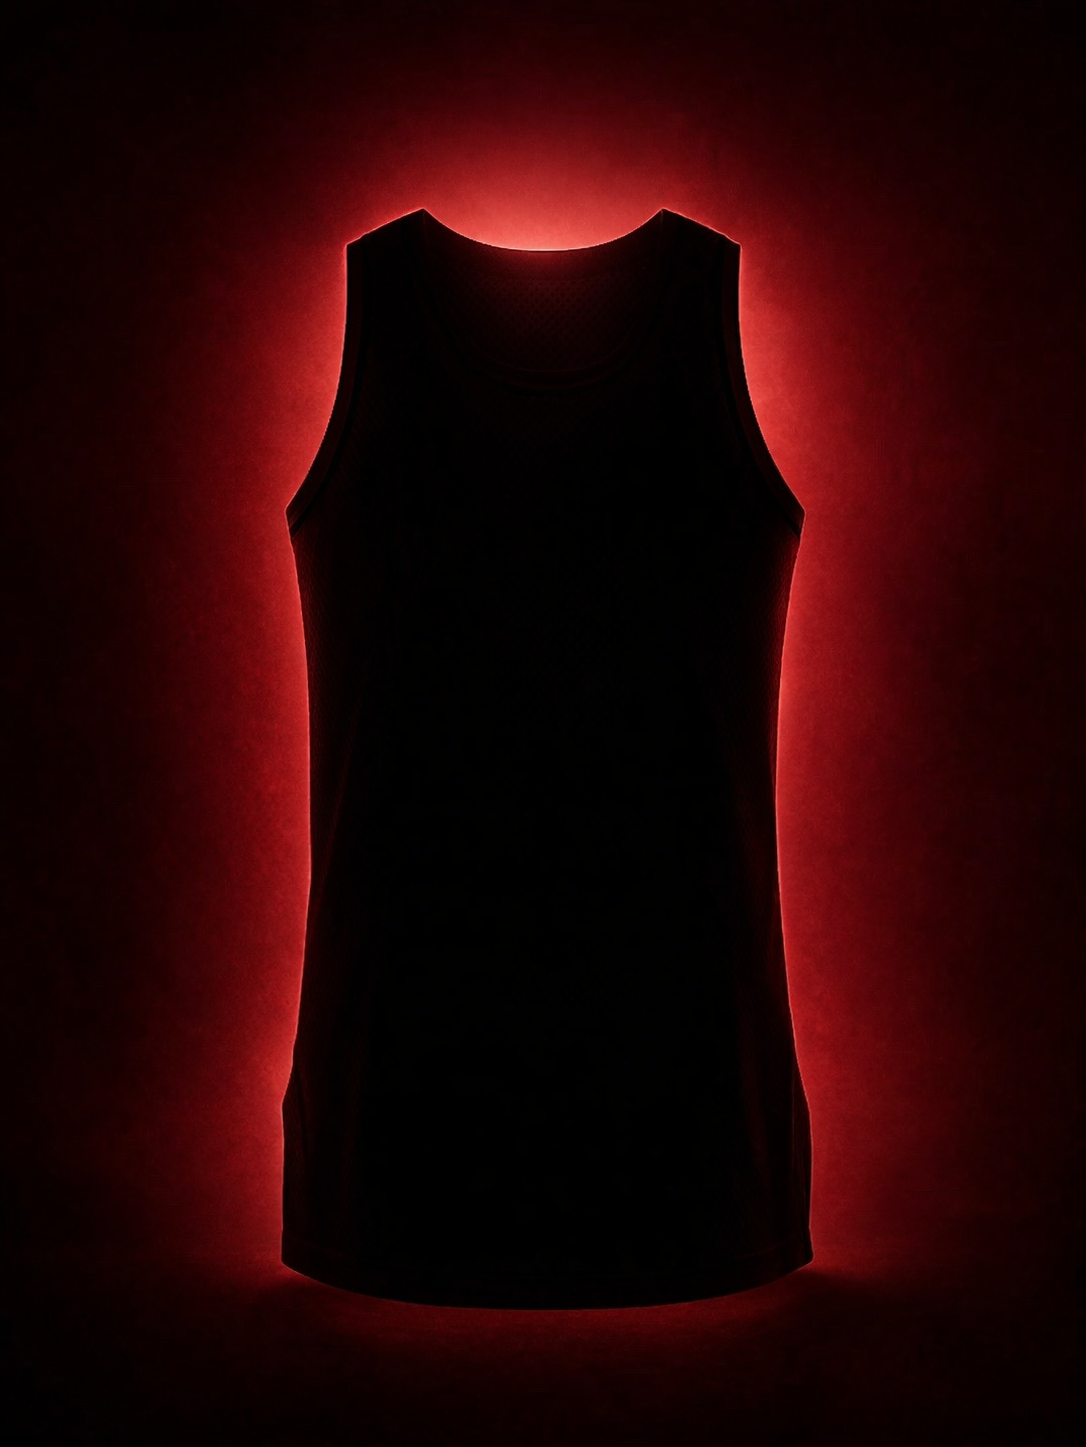
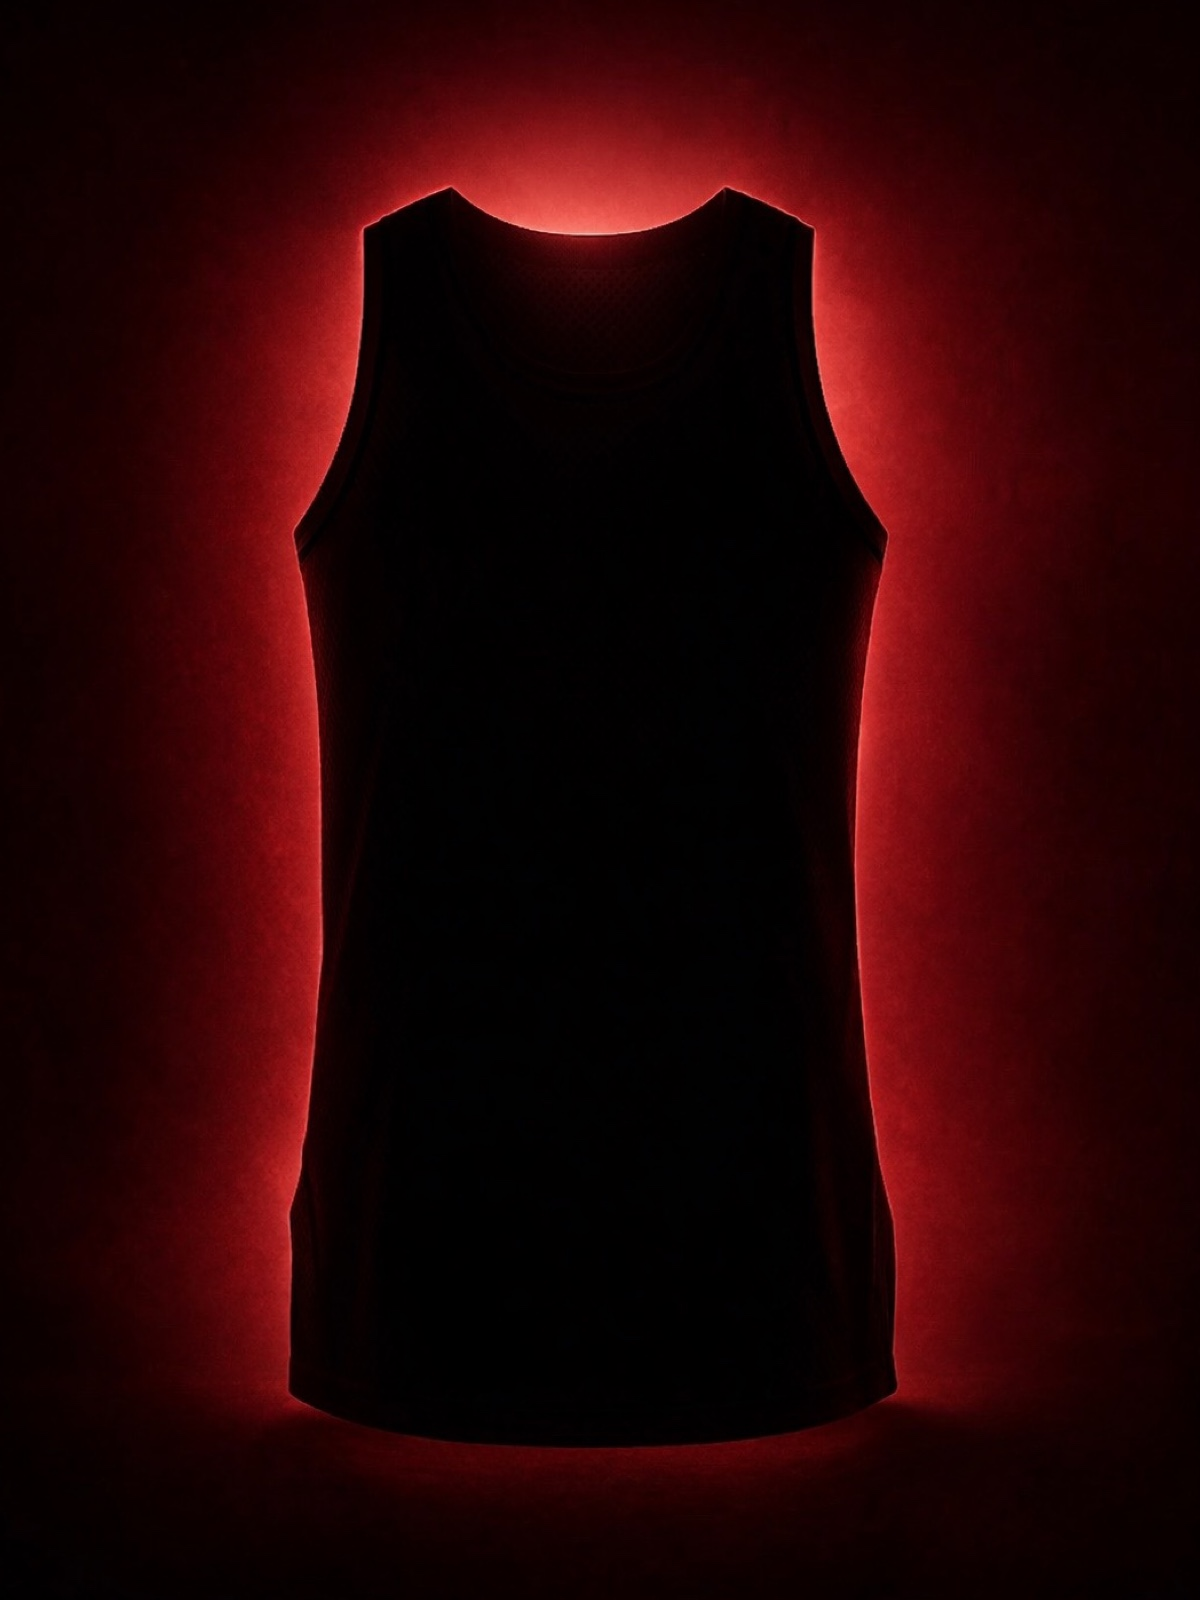
up

Changed region(s): [[0.1823, 0.0311, 0.7597, 0.9019], [0.6989, 0.2799, 0.7597, 0.622]]

diff --git a/jerseys.html b/jerseys.html
@@ -209,7 +209,7 @@
 
             <a class="season-card is-empty" id="season-1987-88" href="#">
               <div class="season-card-image">
-                <img src="assets/jersey-0000.jpg" alt="1987–88 jersey" />
+                <img src="assets/jersey-none-0000.jpg" alt="1987–88 jersey" />
               </div>
               <div class="season-card-body">
                 <div class="season-card-year">1987–88</div>
@@ -256,7 +256,7 @@
 
             <a class="season-card is-empty" id="season-1990-91" href="#">
               <div class="season-card-image">
-                <img src="assets/jersey-0000.jpg" alt="1990–91 jersey" />
+                <img src="assets/jersey-none-0000.jpg" alt="1990–91 jersey" />
               </div>
               <div class="season-card-body">
                 <div class="season-card-year">1990–91</div>
